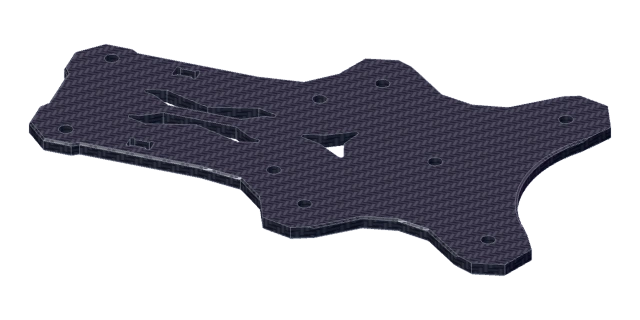
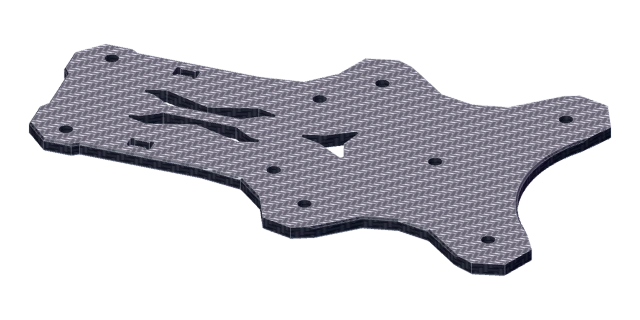
Match the carbon plate highlights to the arm render

Changed region(s): [[0.0312, 0.125, 0.9688, 0.8438]]

diff --git a/index.html b/index.html
@@ -144,12 +144,12 @@
             <p>Each arm widens at the root, where the arm lock holds it in the frame.</p>
           </article>
           <article>
-            <img src="assets/parts/carbon-bottom.webp?v=twill" alt="" width="640" height="320" loading="lazy" decoding="async">
+            <img src="assets/parts/carbon-bottom.webp?v=twill-gloss" alt="" width="640" height="320" loading="lazy" decoding="async">
             <h3>3 mm bottom plate</h3>
             <p>The bottom plate ties the arm roots together and extends forward beneath the camera cage.</p>
           </article>
           <article>
-            <img src="assets/parts/carbon-deck.webp?v=twill" alt="" width="640" height="320" loading="lazy" decoding="async">
+            <img src="assets/parts/carbon-deck.webp?v=twill-gloss" alt="" width="640" height="320" loading="lazy" decoding="async">
             <h3>2 mm top and mid plates</h3>
             <p>The slotted top plate carries the battery. Beneath it, the mid plate clamps the arms against the bottom plate.</p>
           </article>
